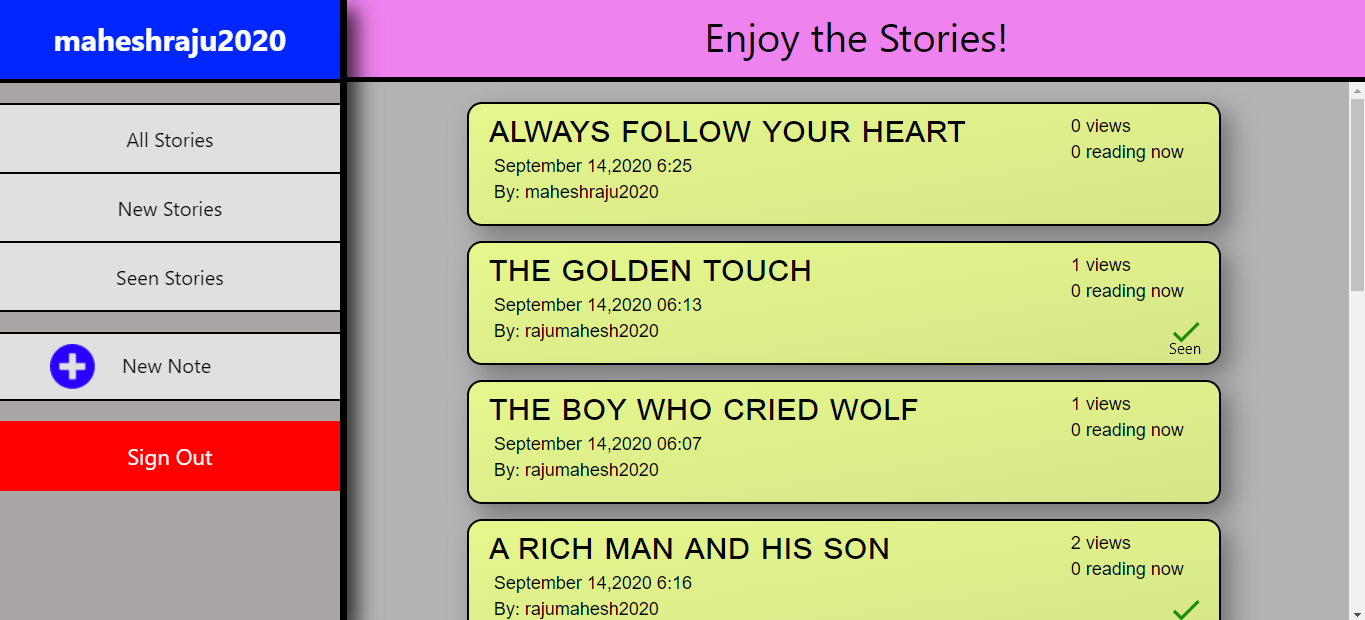
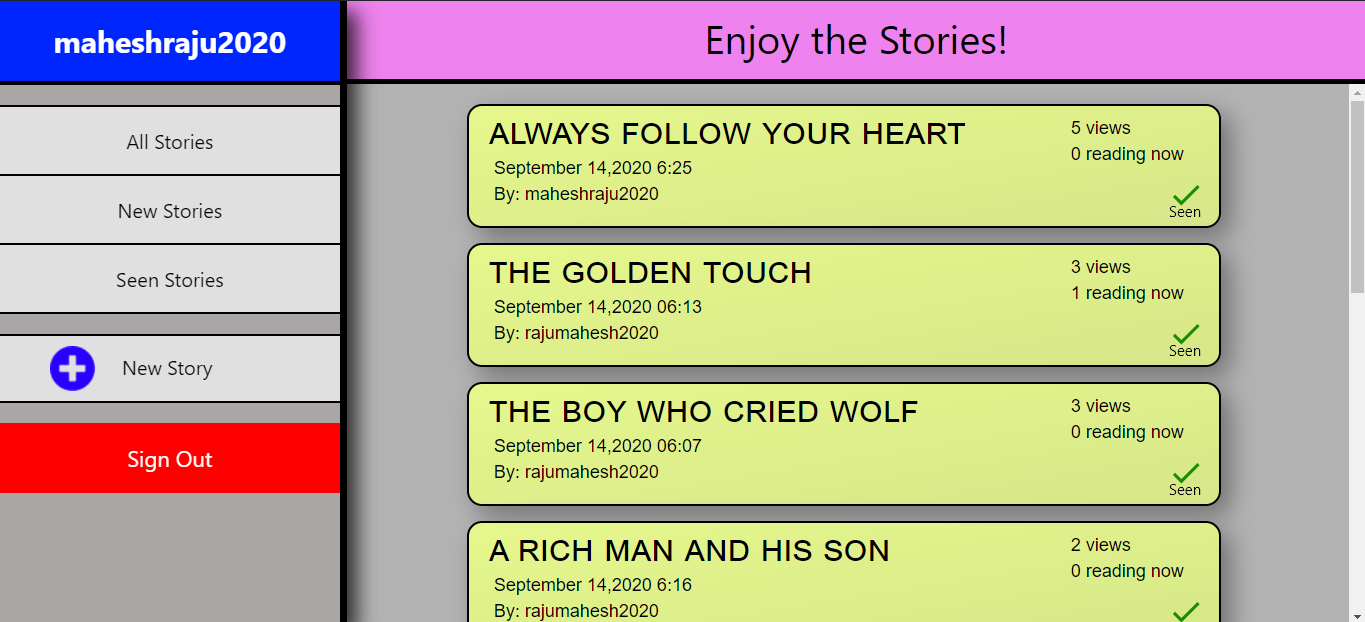
final changes

diff --git a/src/Components/StoryPage.js b/src/Components/StoryPage.js
@@ -26,7 +26,6 @@ export default function StoryPage(props) {
     const storyCountJsx = (
         <div id="storyViewsCount">{story["viewers"].length}</div>
     );
-
     // This will handle the case when the user abruptly closes the tab or the browser (updating live user count).
     useEffect(() => {
         window.addEventListener("beforeunload", () => {
@@ -35,7 +34,7 @@ export default function StoryPage(props) {
                 .collection("stories")
                 .doc(props.location.state["id"])
                 .update({
-                    live: [...props.location.state["live"]],
+                    live: props.location.state["live"],
                 });
         });
     }, []);
@@ -89,6 +88,13 @@ export default function StoryPage(props) {
                             }
                             return null;
                         });
+                        let newViewList = [];
+                        for (let i = 0; i < notes["live"].length; i++) {
+                            if (notes["live"][i] !== email) {
+                                newViewList.push(notes["live"][i]);
+                            }
+                        }
+                        props.location.state["live"] = newViewList;
                         updateStory(notes);
                     })
             );

diff --git a/src/Components/SignUp.js b/src/Components/SignUp.js
@@ -25,6 +25,9 @@ export default function SignUp() {
         firebase
             .auth()
             .createUserWithEmailAndPassword(email, password)
+            .then(() => {
+                history.push("/stories-menu");
+            })
             .catch((err) => {
                 //Displaying various errors incase their is an error in authenticating.
                 switch (err.code) {
@@ -40,14 +43,14 @@ export default function SignUp() {
                 }
             });
     };
-    // LifeCycle method, which will run, and do auto sign in, is the user is known
+    // LifeCycle method, which will run, and do auto sign in, is the user is known (uncomment to enable autosignin)
     useEffect(() => {
         clearInputs();
-        firebase.auth().onAuthStateChanged((user) => {
-            if (user) {
-                history.push("/stories-menu");
-            }
-        });
+        // firebase.auth().onAuthStateChanged((user) => {
+        //     if (user) {
+        //         history.push("/stories-menu");
+        //     }
+        // });
     }, []);
     return (
         <div>

diff --git a/src/Components/SignIn.js b/src/Components/SignIn.js
@@ -46,15 +46,14 @@ export default function SignIn() {
             });
     };
 
-    // LifeCycle method, which will run, and do auto sign in, is the user is known
+    // LifeCycle method, which will run, and do auto sign in, is the user is known (uncomment to enable autosignin)
     useEffect(() => {
         clearInputs();
-        firebase.auth().onAuthStateChanged((user) => {
-            console.log(user);
-            if (user) {
-                history.push("/stories-menu");
-            }
-        });
+        // firebase.auth().onAuthStateChanged((user) => {
+        //     if (user) {
+        //         history.push("/stories-menu");
+        //     }
+        // });
     }, []);
 
     return (

diff --git a/src/Components/LeftDrawer.js b/src/Components/LeftDrawer.js
@@ -28,7 +28,7 @@ export default function LeftDrawer(props) {
                 }}
             >
                 <img id="plusIcon" alt="" srcset={plus} />
-                <div id="NewNoteText">New Note</div>
+                <div id="NewNoteText">New Story</div>
             </div>
             <div
                 id="SignOutButton"

diff --git a/src/Components/CSS/StoriesPortion.css b/src/Components/CSS/StoriesPortion.css
@@ -7,8 +7,10 @@
     width: 75%;
     display: flex;
     flex-direction: column;
+    user-select: none;
     z-index: 4;
 }
+
 #MainStoryTitle {
     height: 10%;
     background: violet;

diff --git a/src/Components/CSS/NewStory.css b/src/Components/CSS/NewStory.css
@@ -15,6 +15,7 @@
     box-shadow: 20px 20px 30px 10px rgba(0, 0, 0, 0.42);
     border: 3px solid black;
     background: rgb(144, 170, 255);
+    user-select: none;
 }
 
 #divTitle {

diff --git a/src/Components/CSS/SignIn.css b/src/Components/CSS/SignIn.css
@@ -12,6 +12,7 @@
 
 #signInForm {
     margin-top: 25px;
+    user-select: none;
 }
 
 .signInPageInput {

diff --git a/src/Components/CSS/SignUp.css b/src/Components/CSS/SignUp.css
@@ -12,6 +12,7 @@
 
 #signUpForm {
     margin-top: 25px;
+    user-select: none;
 }
 
 .signUpPageInput {

diff --git a/src/Components/CSS/StoryPage.css b/src/Components/CSS/StoryPage.css
@@ -5,6 +5,7 @@
 
 #StoryPortion {
     display: flex;
+    user-select: none;
 }
 
 #StoryLeftPortion {
